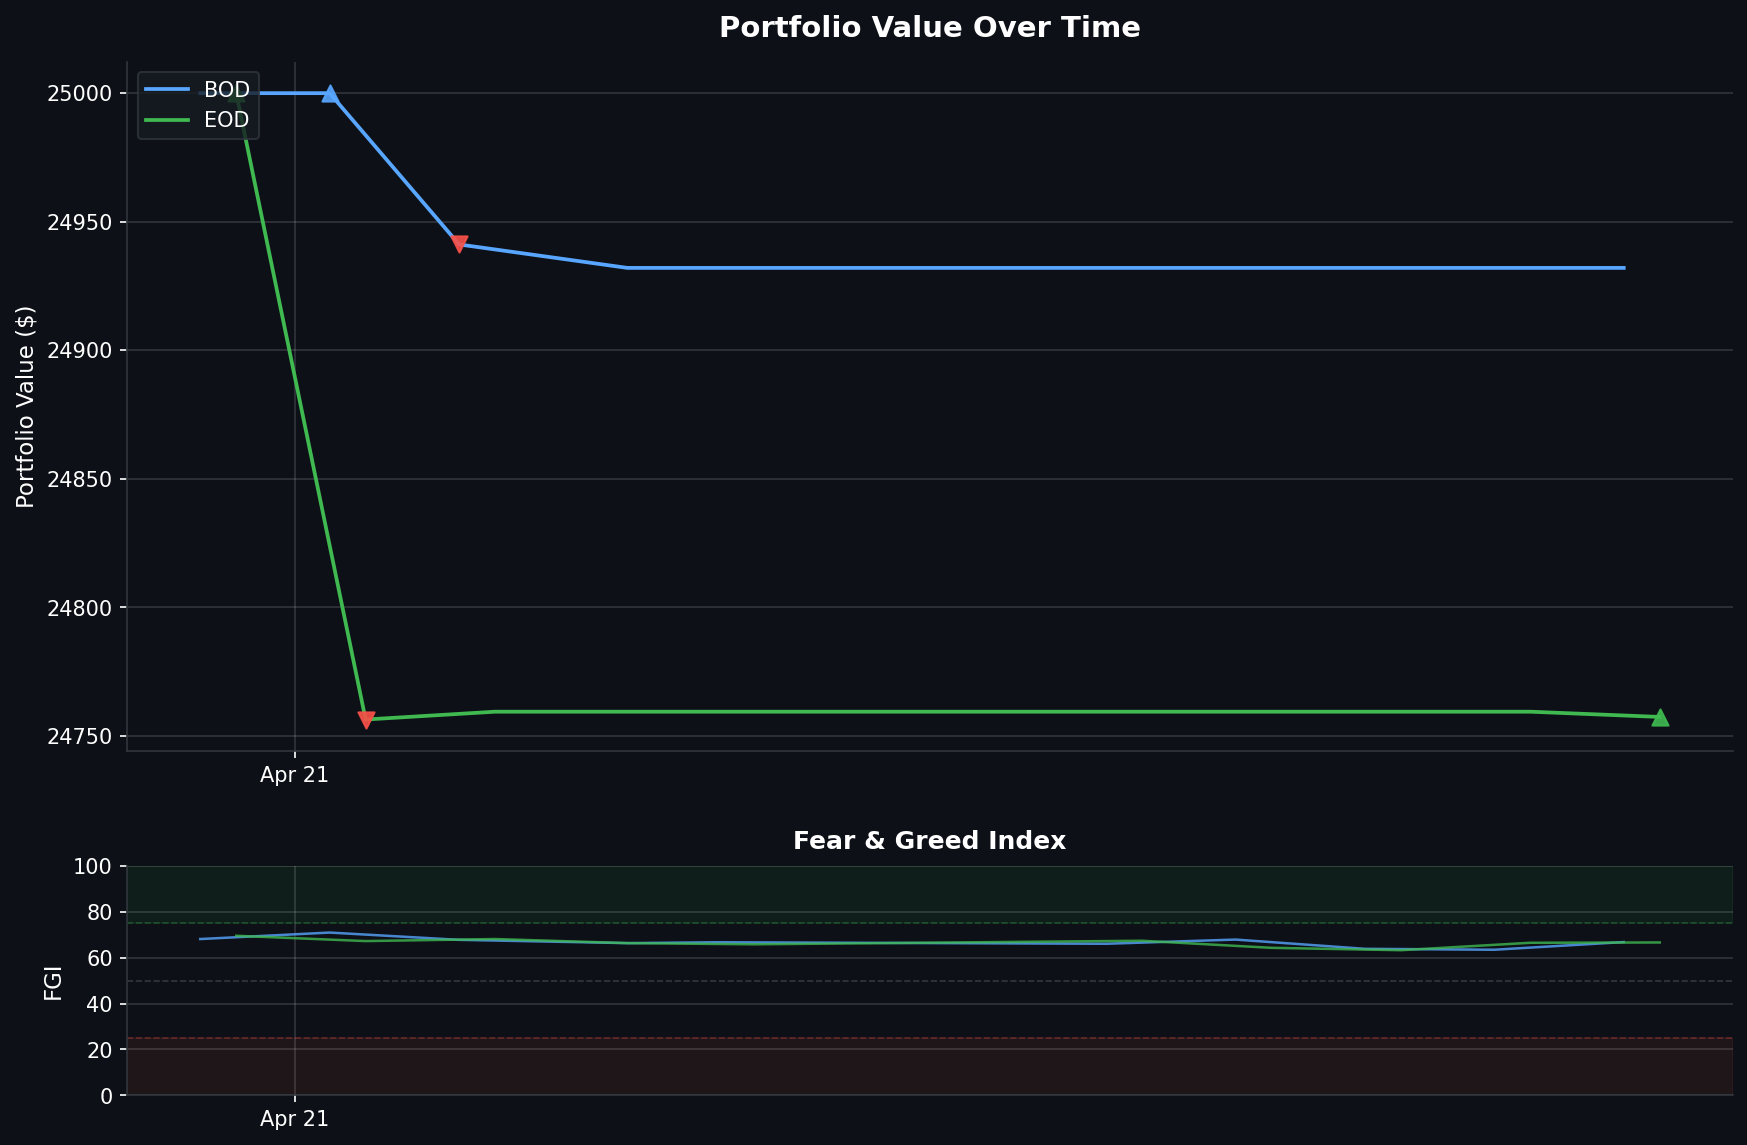
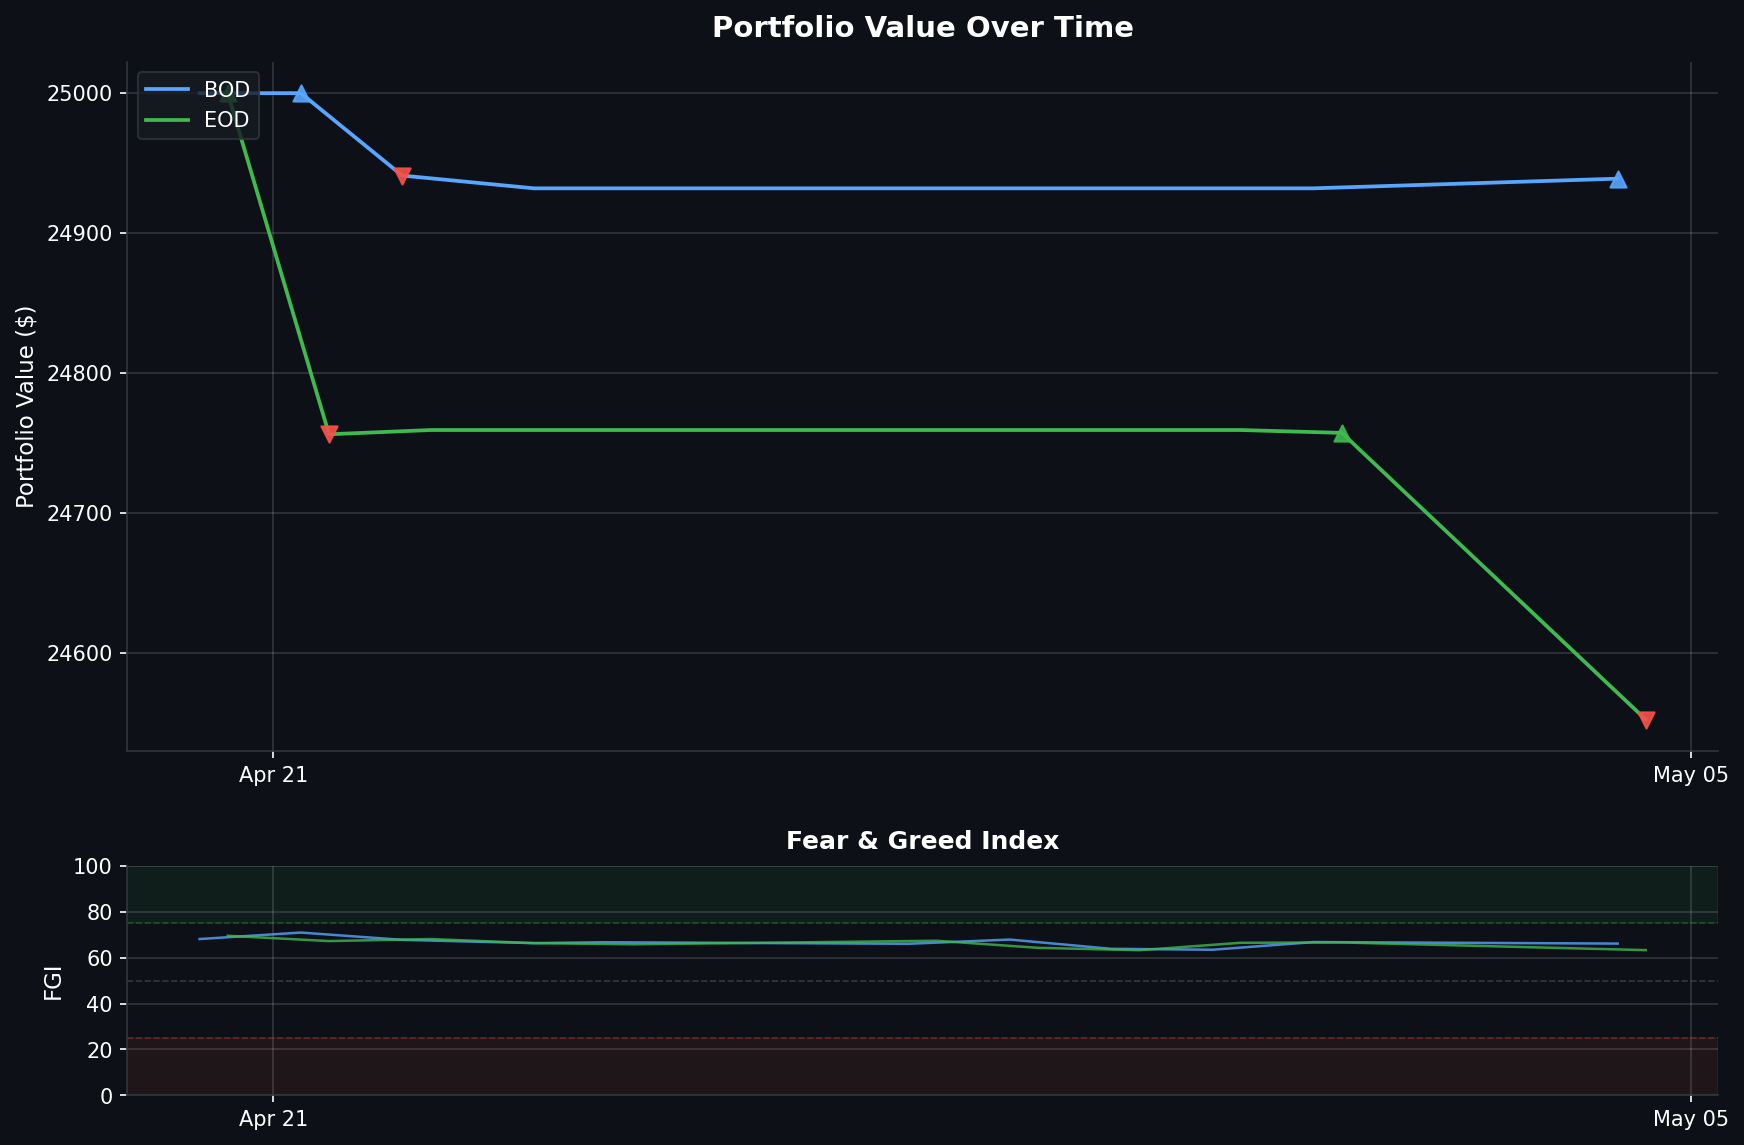
Daily data backup 2026-05-04

diff --git a/README.md b/README.md
@@ -1,6 +1,6 @@
 # Fear & Greed Index Trading Bot
 
-> Dashboard auto-updated daily at market close | Last update: **2026-05-01 13:30 PST**
+> Dashboard auto-updated daily at market close | Last update: **2026-05-04 13:30 PST**
 
 ![Portfolio Performance](assets/portfolio_chart.png)
 
@@ -10,21 +10,22 @@
 
 | Metric | Value |
 |--------|-------|
-| Portfolio Value | **$24,932.04** |
-| Buying Power | $49,864.08 |
-| Current FGI | 66.77 |
-| Position | FLAT |
+| Portfolio Value | **$24,938.94** |
+| Buying Power | $215.13 |
+| Current FGI | 66.11 |
+| Position | IN POSITION |
 | Total P&L | **$-68** |
 | Win Rate | 0% (0W / 1L) |
 | Total Round Trips | 1 |
-| Last Signal | NO_ACTION @ 2026-05-01 06:30 |
+| Last Signal | BOUGHT @ 2026-05-04 06:32 |
 
 <details>
-<summary>Trade History (1 trades)</summary>
+<summary>Trade History (2 trades)</summary>
 
 | Buy Date | Sell Date | Buy Price | Sell Price | Qty | P&L | Return | Result |
 |----------|-----------|-----------|------------|-----|-----|--------|--------|
 | 2026-04-21 | 2026-04-22 | $710.20 | $709.24 | 70 | $-68 | -0.14% | LOSS |
+| 2026-05-04 | — | $719.65 | — | 69 | — | — | OPEN |
 
 </details>
 
@@ -33,11 +34,11 @@
 
 | Time | Action | Price | FGI | Momentum | Velocity | Volatility | Reason |
 |------|--------|-------|-----|----------|----------|------------|--------|
+| 05-04 06:32 | BOUGHT | $719.65 | 66.11 | 0.67 | 0.76 | 0.1191 | Strong momentum/velocity, low volatility |
 | 05-01 06:30 | NO_ACTION | $721.32 | 66.77 | 2.09 | -0.36 | 0.1197 | Insufficient momentum/velocity for entry |
 | 04-30 06:30 | NO_ACTION | $714.69 | 63.43 | -1.61 | -0.87 | 0.1186 | Insufficient momentum/velocity for entry |
 | 04-29 06:30 | NO_ACTION | $710.85 | 63.83 | -2.08 | -0.95 | 0.1456 | Insufficient momentum/velocity for entry |
 | 04-28 06:30 | NO_ACTION | $711.82 | 67.86 | 1.00 | 0.52 | 0.1442 | Strong momentum/velocity, low volatility |
-| 04-27 06:30 | NO_ACTION | $713.19 | 66.03 | -0.31 | -0.57 | 0.1655 | Insufficient momentum/velocity for entry |
 
 </details>
 
@@ -47,14 +48,14 @@
 
 | Metric | Value |
 |--------|-------|
-| Portfolio Value | **$24,757.40** |
-| Buying Power | $528.28 |
-| Current FGI | 66.6 |
-| Position | IN POSITION |
-| Total P&L | **$-323** |
-| Win Rate | 0% (0W / 1L) |
-| Total Round Trips | 1 |
-| Last Signal | BOUGHT @ 2026-05-01 13:11 |
+| Portfolio Value | **$24,552.72** |
+| Buying Power | $49,105.44 |
+| Current FGI | 63.26 |
+| Position | FLAT |
+| Total P&L | **$-529** |
+| Win Rate | 0% (0W / 2L) |
+| Total Round Trips | 2 |
+| Last Signal | SOLD @ 2026-05-04 13:11 |
 
 <details>
 <summary>Trade History (2 trades)</summary>
@@ -62,7 +63,7 @@
 | Buy Date | Sell Date | Buy Price | Sell Price | Qty | P&L | Return | Result |
 |----------|-----------|-----------|------------|-----|-----|--------|--------|
 | 2026-04-20 | 2026-04-21 | $708.76 | $704.15 | 70 | $-323 | -0.65% | LOSS |
-| 2026-05-01 | — | $720.42 | — | 68 | — | — | OPEN |
+| 2026-05-01 | 2026-05-04 | $720.42 | $717.38 | 68 | $-207 | -0.42% | LOSS |
 
 </details>
 
@@ -71,11 +72,11 @@
 
 | Time | Action | Price | FGI | Momentum | Velocity | Volatility | Reason |
 |------|--------|-------|-----|----------|----------|------------|--------|
+| 05-04 13:11 | SOLD | $717.38 | 63.26 | -2.18 | 0.01 | 0.1191 | Momentum reversal or high volatility |
 | 05-01 13:11 | BOUGHT | $720.42 | 66.6 | 1.17 | 0.78 | 0.1197 | Strong momentum/velocity, low volatility |
 | 04-30 13:10 | NO_ACTION | $718.66 | 66.46 | 1.81 | -0.29 | 0.1186 | Insufficient momentum/velocity for entry |
 | 04-29 13:10 | NO_ACTION | $711.63 | 63.23 | -1.71 | -0.86 | 0.1456 | Insufficient momentum/velocity for entry |
 | 04-28 13:10 | NO_ACTION | $711.54 | 64.26 | -1.54 | -0.68 | 0.1442 | Insufficient momentum/velocity for entry |
-| 04-27 13:10 | NO_ACTION | $715.10 | 67.34 | 0.86 | -0.25 | 0.1655 | Insufficient momentum/velocity for entry |
 
 </details>
 
